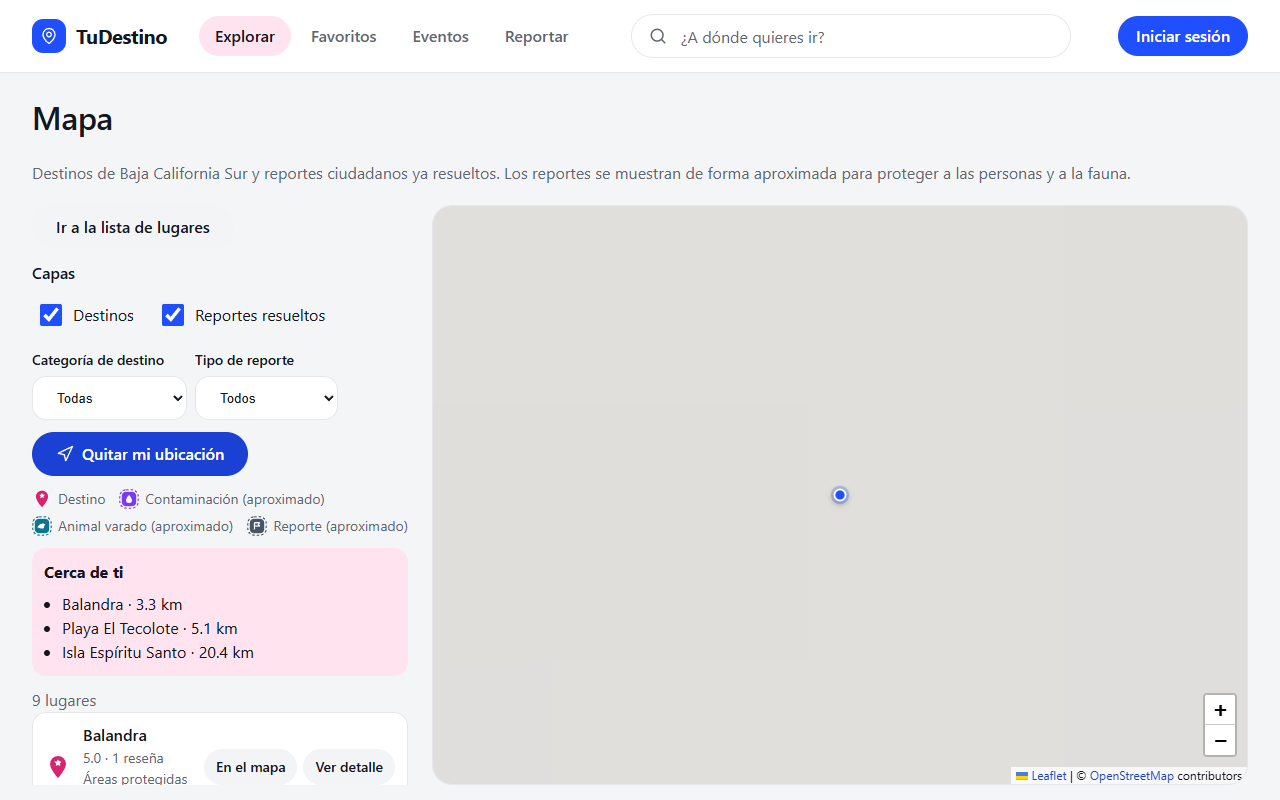
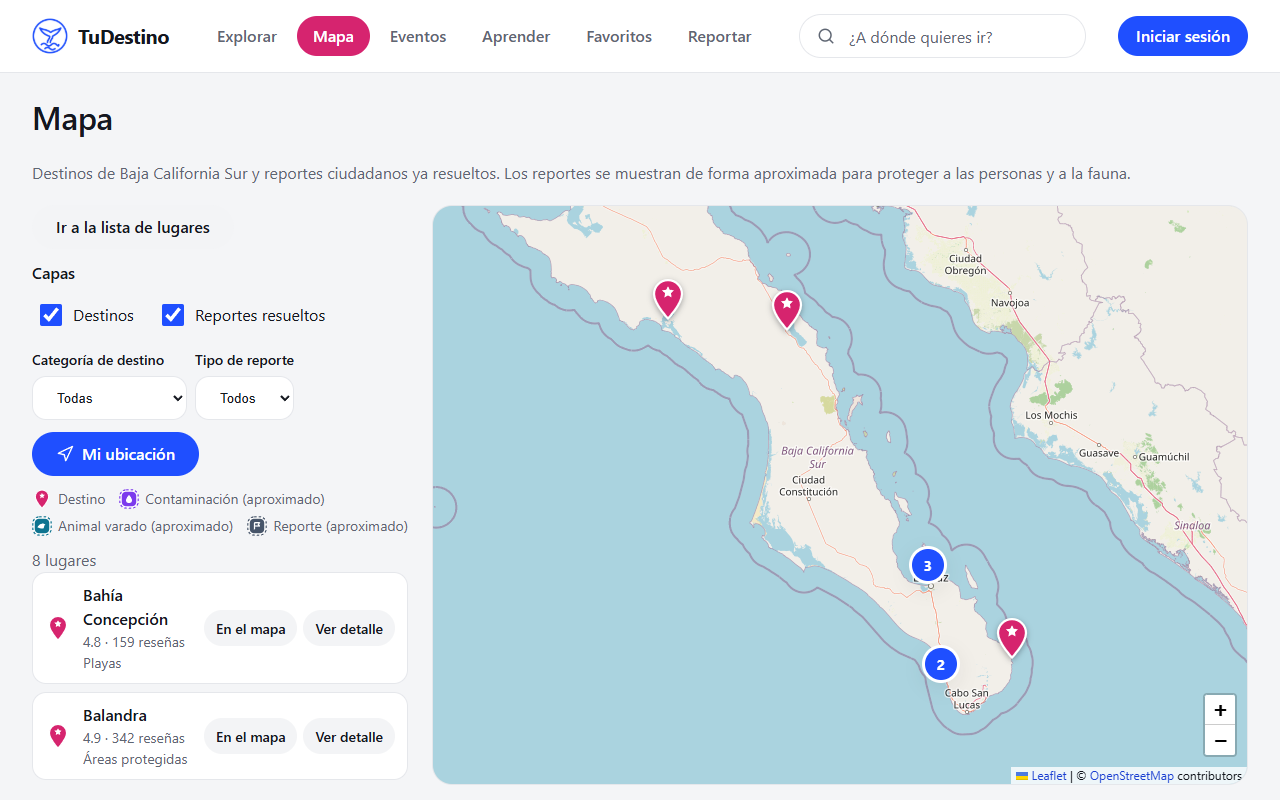
docs(evidence): regenerate screenshots from the current build with real map tiles

diff --git a/docs/evidencias/README.md b/docs/evidencias/README.md
@@ -2,6 +2,31 @@
 
 Capturas, videos y reportes de Lighthouse que respaldan cada característica PWA.
 
+## Índice de capturas (regeneradas con el build actual)
+
+Todas se tomaron con Chrome (Playwright, canal `chrome`) sobre `npm run build && npm run preview`, la API y PostgreSQL locales y solo los datos de desarrollo. Las de móvil usan 360×780 y las de escritorio 1280×800. Las de página larga ocultan la barra inferior y el botón «Reportar» para que no floten a mitad de imagen; las de viewport sí muestran la barra fija, tal como la ve la persona. Los mapas se capturaron solo después de ver teselas de OpenStreetMap (`.leaflet-tile-loaded` > 0), pines y ninguna tesela pendiente. Las capturas `-offline` usan `context.setOffline(true)` tras una visita en línea que llena las cachés; la de «sin teselas» nunca visitó el mapa en línea (`td-tiles-v1` vacía).
+
+| Archivo | Rúbrica / requisito | Qué muestra |
+|---|---|---|
+| `UI_inicio-1280/360`, `UI_inicio-con-sesion-1280/360` | PWA-01, PWA-02 | Inicio con el logo y la navegación nueva (Explorar, Mapa, Eventos, Aprender, Perfil), sin y con sesión |
+| `UI_explorar-*`, `UI_destino-detalle-*` | RF01, RF02, HU-T05 | Catálogo y detalle de destino (Balandra) |
+| `UI_eventos-lista-*`, `UI_eventos-calendario-*` | RF04, HU-T06 | Eventos en lista y en calendario (día 12 seleccionado) |
+| `UI_educacion-*` | RF03, HU-T08 | Educación ambiental con búsqueda y filtros |
+| `UI_login-*`, `UI_perfil-*` | HU-T02, HU-T10 | Inicio de sesión y perfil (usuario de desarrollo) |
+| `PWA-06_estado-pwa-manifest-sw-cache` | PWA-05, 06, 07, 09, 10 | **Volcado generado por script** (no es DevTools) con datos reales leídos por CDP: manifest con íconos 192/512 y maskable, `getInstallabilityErrors = []`, service worker activado, Cache Storage (`workbox-precache`, `td-api-v1`, `td-tiles-v1`) e IndexedDB |
+| `PWA-08_explorar-offline-1280/360`, `PWA-08_busqueda-offline-1280`, `PWA-08_detalle-offline-1280`, `PWA-08_eventos-offline-1280`, `PWA-08_educacion-offline-1280` | PWA-08 | Modo sin conexión con el aviso y el contenido guardado (búsqueda «espiritu» sin acento incluida) |
+| `PWA-13_reporte-paso1-*`, `PWA-13_reporte-paso3-*` | RF05, RF06, HU-T09 | Formulario de reporte: tipo y descripción |
+| `PWA-13_guardado-offline-*`, `PWA-13_pendientes-en-cola-*` | PWA-13, RF23 | Reporte creado sin conexión: «Guardado en tu dispositivo» y cola «En cola» con la insignia |
+| `PWA-13_enviado-tras-reconectar-*` | PWA-13 | Tras reconectar: «Enviado», folio y código de seguimiento |
+| `PWA-13_seguimiento-1280/360`, `PWA-13_seguimiento-en-revision-1280` | RF22, HU-A04 | Seguimiento por folio + código (reporte anónimo) y su línea de tiempo tras el cambio de estado |
+| `PWA-14_reporte-ubicacion-concedida-*`, `PWA-14_reporte-ubicacion-denegada-360` | PWA-14, RF08 | Paso 2 con ubicación lista (precisión ~18 m, mapa con teselas) y con el permiso denegado |
+| `PWA-14_mapa-mi-ubicacion-1280`, `PWA-14_cerca-de-mi-1280` | PWA-14 | «Mi ubicación» en el mapa y orden «Cerca de mí» |
+| `PWA-15_compartir-destino-*`, `PWA-15_compartir-evento-*` | PWA-15, RF21 | Aviso «Enlace copiado» (fallback de Web Share; en la prueba se quitó `navigator.share` para forzarlo, la hoja nativa requiere un móvil real) |
+| `PWA-16_campana-*`, `PWA-16_bandeja-*` | PWA-16, RF22 | Campana con 1 sin leer y bandeja con «Tu reporte … cambió de estado» |
+| `PWA-16_perfil-avisos-*` | PWA-16 | Perfil con el interruptor «Recibir avisos» (apagado: no se concedió el permiso en la captura) |
+| `F7_*` | RF10–RF16, HU-A02–A08 | Panel de autoridad; ver la tabla de la sección F7 |
+| `F8_*` | HU-T13, PWA-08, PWA-14 | Mapas con teselas reales y selectores de ubicación; ver la tabla de la sección F8 |
+
 ## Convención de nombres
 
 `PWA-XX_descripcion.ext`, donde `XX` es el número de la característica (01–16).
@@ -87,7 +112,7 @@ Las comprobaciones automatizadas con Playwright (offline real con `context.setOf
 
 ## Qué capturar para el panel de autoridad (F7)
 
-Capturas ya incluidas (tomadas con Chrome sobre el build real, una API con PostgreSQL y datos de prueba que se borraron después):
+Capturas incluidas (Chrome sobre el build real, API con PostgreSQL y datos de desarrollo):
 
 | Archivo | Qué muestra |
 |---|---|
@@ -96,7 +121,9 @@ Capturas ya incluidas (tomadas con Chrome sobre el build real, una API con Postg
 | `F7_reporte-detalle-evidencia-1280.png` | Detalle: tipo, ubicación con «Abrir en mapa», reportante anónimo, evidencia cargada con sesión (HU-A03) |
 | `F7_reporte-historial-1280.png` | Historial en línea de tiempo con la nota y la autoridad tras un cambio de estado (HU-A04) |
 | `F7_eventos-moderacion-1280.png` | Cola de moderación de propuestas (aprobar / rechazar / cancelar) |
-| `F7_usuarios-1280.png` | Usuarios: alta por invitación, rol, área y desactivar con confirmación (HU-A08) |
+| `F7_usuarios-1280.png` | Usuarios de desarrollo (filtrados por `dev.tudestino.local`): alta por invitación, rol, área y desactivar (HU-A08) |
+| `F7_cambiar-estado-dialogo-1280.png` | Diálogo de cambio de estado con nota obligatoria |
+| `F7_destinos-1280.png`, `F7_educacion-admin-1280.png` | CRUD de destinos y de contenido educativo (HU-A05, HU-A07) |
 | `F7_reportes-tarjetas-360.png`, `F7_cambiar-estado-360.png` | Móvil de 360 px: menú compacto, tarjetas y diálogo de cambio de estado |
 
 Capturas manuales que faltan para el documento técnico:
@@ -110,21 +137,21 @@ Para repetir el recorrido: levanta la API (`DATABASE_URL=… PORT=3100 npm start
 
 ## Qué capturar para el mapa (F8)
 
-Capturas incluidas (Chrome sobre el build real; **las teselas se simularon con un PNG liso** porque la verificación no depende de internet, así que el fondo es un color uniforme y no el mapa de OpenStreetMap; con conexión real se ven las calles):
+Capturas incluidas (Chrome sobre el build real, **con teselas reales de OpenStreetMap** y atribución «© OpenStreetMap contributors»):
 
 | Archivo | Qué muestra |
 |---|---|
-| `F8_mapa-1280.png` | `/mapa` en escritorio: panel con capas, filtros, «Mi ubicación», leyenda y lista; mapa con pines de destino, agrupamientos y el punto del usuario (HU-T13, PWA-14) |
+| `F8_mapa-1280.png` | `/mapa` en escritorio: panel con capas, filtros, «Mi ubicación», leyenda y lista; mapa con pines de destino, y agrupamientos (HU-T13); el punto del usuario está en `PWA-14_mapa-mi-ubicacion-1280.png` |
 | `F8_mapa-360.png` | Móvil de 360 px: mapa, atribución y lista debajo |
-| `F8_mapa-offline-sin-teselas-1280.png` | Sin conexión y sin teselas guardadas: fondo neutro, «Sin conexión: mostrando solo los puntos guardados» y la lista (PWA-08) |
-| `F8_mapa-offline-con-teselas-1280.png` | Sin conexión con teselas ya visitadas servidas desde `td-tiles-v1` |
+| `F8_mapa-offline-sin-teselas-1280.png` | Sin conexión y sin teselas guardadas (cache `td-tiles-v1` vacía): fondo neutro, pines, «Sin conexión: mostrando solo los puntos guardados» y la lista (PWA-08) |
+| `F8_mapa-offline-con-teselas-1280.png` | Sin conexión con las teselas ya visitadas servidas desde `td-tiles-v1` (15 teselas y 5 pines tras recargar offline) |
 | `F8_selector-ubicacion-360.png` | Paso 2 del reporte con el mapa para ajustar el punto y los campos de coordenadas a mano |
 | `F8_admin-reporte-mini-mapa-1280.png` | Detalle de un reporte con mini-mapa en la posición exacta y el enlace externo a OpenStreetMap |
 | `F8_admin-destino-selector-1280.png` | Formulario de destino con el selector de ubicación |
+| `F8_admin-mapa-1280.png` | Mapa de reportes del personal (ubicación exacta, solo autoridad) |
 
 Capturas manuales que faltan para el documento técnico:
 
-- `F8_mapa-osm-real.png`: `/mapa` con conexión real (teselas de OpenStreetMap y atribución «© OpenStreetMap contributors»).
 - `F8_tiles-cache.png`: DevTools > Application > Cache Storage > `td-tiles-v1` (≤ 300 entradas) y `td-api-v1` con `/api/v1/map/pins` y **sin** ninguna URL `/admin/`.
 - `F8_pins-publicos-red.png`: DevTools > Network > `/api/v1/map/pins`: coordenadas redondeadas, `approximate: true`, sin folio ni descripción.
 - `F8_pins-admin-401.png`: `/api/v1/admin/map/pins` sin sesión (401) y con sesión (coordenadas exactas, `Cache-Control: private, no-store`).

diff --git a/docs/trazabilidad-rf.md b/docs/trazabilidad-rf.md
@@ -114,8 +114,8 @@ La matriz oficial vive en `CLAUDE.md` sección 20 (no se edita desde esta fase).
 | Ítem | Implementación | Prueba | Evidencia a capturar | Estado |
 |---|---|---|---|---|
 | PWA-07 Cache API | `td-tiles-v1`: `CacheFirst` + `ExpirationPlugin` (300 entradas, 7 días) + `CacheableResponsePlugin` `[0, 200]` para `tile.openstreetmap.org`; `/api/v1/map/pins` entra en la estrategia SWR existente (`td-api-v1`); `/admin/map/pins` es red directa | `swRouting.test`, Playwright (`td-tiles-v1` y `td-api-v1` sin ninguna URL `/admin/`) | DevTools > Application > Cache Storage | Hecho |
-| PWA-08 Offline parcial | Teselas ya visitadas desde caché; sin red los destinos salen del espejo IndexedDB (o de los de ejemplo) y la lista alternativa sigue funcionando; sin teselas, fondo neutro y «Sin conexión: mostrando solo los puntos guardados» | ver arriba | `F8_mapa-offline-*.png` | Hecho (los pines de reportes solo si el SWR ya los guardó) |
-| PWA-14 Geolocation | «Mi ubicación» (centra, punto propio y destinos cercanos con distancia) y mapa para elegir la ubicación del reporte y del destino | ver arriba | `F8_mapa-1280.png`, `F8_selector-ubicacion-360.png` | Hecho |
+| PWA-08 Offline parcial | Teselas ya visitadas desde caché; sin red los destinos salen del espejo IndexedDB (o de los de ejemplo) y la lista alternativa sigue funcionando; sin teselas, fondo neutro y «Sin conexión: mostrando solo los puntos guardados» | ver arriba | `F8_mapa-offline-*.png`, `PWA-08_*-offline-*.png` | Hecho (los pines de reportes solo si el SWR ya los guardó) |
+| PWA-14 Geolocation | «Mi ubicación» (centra, punto propio y destinos cercanos con distancia) y mapa para elegir la ubicación del reporte y del destino | ver arriba | `F8_mapa-1280.png`, `F8_selector-ubicacion-360.png`, `PWA-14_*.png` | Hecho |
 
 ## Avisos push y Badging API (Sprint 9 · F9)
 
